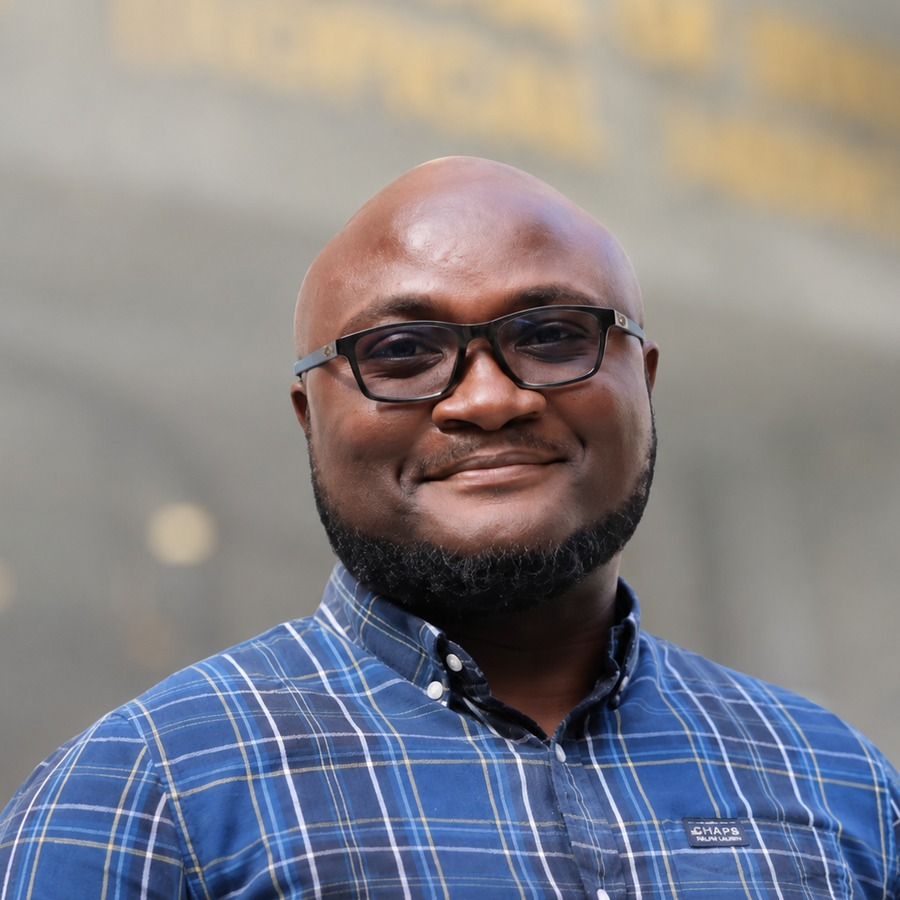
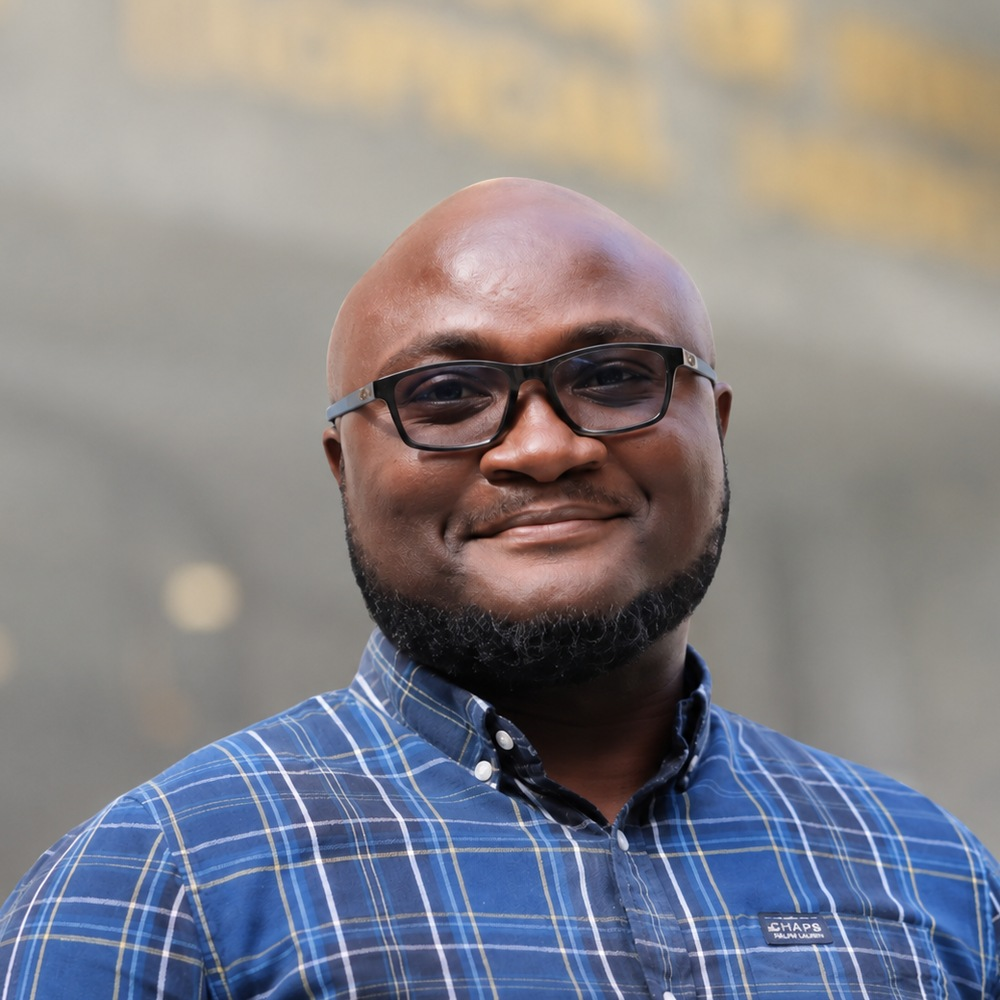
Fix James Azam advisor card photo and centered credentials.

diff --git a/index.html b/index.html
@@ -11,7 +11,7 @@
   <link rel="preconnect" href="https://fonts.googleapis.com">
   <link rel="preconnect" href="https://fonts.gstatic.com" crossorigin>
   <link href="https://fonts.googleapis.com/css2?family=Lato:wght@300;400;700;900&family=Oswald:wght@400;500;600;700&display=swap" rel="stylesheet">
-  <link rel="stylesheet" href="assets/genehus.css?v=20260808azam1">
+  <link rel="stylesheet" href="assets/genehus.css?v=20260808azam2">
   <meta http-equiv="Cache-Control" content="no-cache">
 </head>
 <body>
@@ -303,11 +303,13 @@
           <p class="person-meta">Deputy Director, Clinical Care, Ghana Health Service</p>
         </article>
         <article class="advisor-card advisor-card--filled advisor-card--deck">
-          <img class="person-photo" src="assets/advisor-azam.jpg?v=1" alt="Dr. James Azam" width="900" height="900" loading="lazy" decoding="async">
-          <h3>Dr. James Azam,</h3>
-          <p class="advisor-creds">BSc, MSc, MS, PhD,</p>
-          <p class="advisor-creds">Research Fellow, CMMID,</p>
-          <p class="person-meta">London School of Hygiene &amp; Tropical Medicine</p>
+          <img class="person-photo" src="assets/advisor-azam.jpg?v=2" alt="Dr. James Azam" width="1000" height="1000" loading="lazy" decoding="async">
+          <p class="advisor-azam-creds">
+            Dr. James Azam,<br>
+            BSc, MSc, MS, PhD,<br>
+            Research Fellow, CMMID,<br>
+            London School of Hygiene &amp; Tropical Medicine
+          </p>
         </article>
         <article class="advisor-card" aria-label="Advisor"></article>
       </div>

diff --git a/assets/genehus.css b/assets/genehus.css
@@ -1113,53 +1113,35 @@ ol {
   margin-top: 3px;
 }
 
-/* Pitch-deck style advisor card (matches Advisors slide) */
+/* James Azam advisor card — navy, square photo, centered cascade creds */
 .advisor-card--deck {
   background: #1b1e36;
   border: none;
-  padding: 14px 12px 16px;
+  padding: 16px 14px 18px;
   gap: 0;
+  justify-content: flex-start;
 }
 
 .advisor-card--deck .person-photo {
   aspect-ratio: 1;
-  width: 86%;
-  max-width: 220px;
-  margin: 0 auto 10px;
+  width: 78%;
+  max-width: 200px;
+  margin: 8px auto 14px;
   border: none;
   object-fit: cover;
-  object-position: center 20%;
+  object-position: center 18%;
 }
 
-.advisor-card--deck h3,
-.advisor-card--deck .advisor-creds,
-.advisor-card--deck .person-meta {
-  color: #ffffff;
-  font-weight: 500;
-  text-align: center;
-  padding: 0 4px;
-}
-
-.advisor-card--deck h3 {
-  font-size: 0.82rem;
-  font-weight: 500;
-  line-height: 1.25;
+.advisor-card--deck .advisor-azam-creds {
   margin: 0;
-}
-
-.advisor-card--deck .advisor-creds {
+  padding: 0 6px;
+  color: #ffffff;
+  font-family: var(--sans);
   font-size: 0.72rem;
   font-weight: 500;
-  margin: 0;
-  line-height: 1.25;
-}
-
-.advisor-card--deck .person-meta {
-  font-size: 0.68rem;
-  font-weight: 500;
-  color: #ffffff;
-  margin: 0;
-  line-height: 1.25;
+  line-height: 1.35;
+  text-align: center;
+  white-space: normal;
 }
 
 .advisor-card p {
